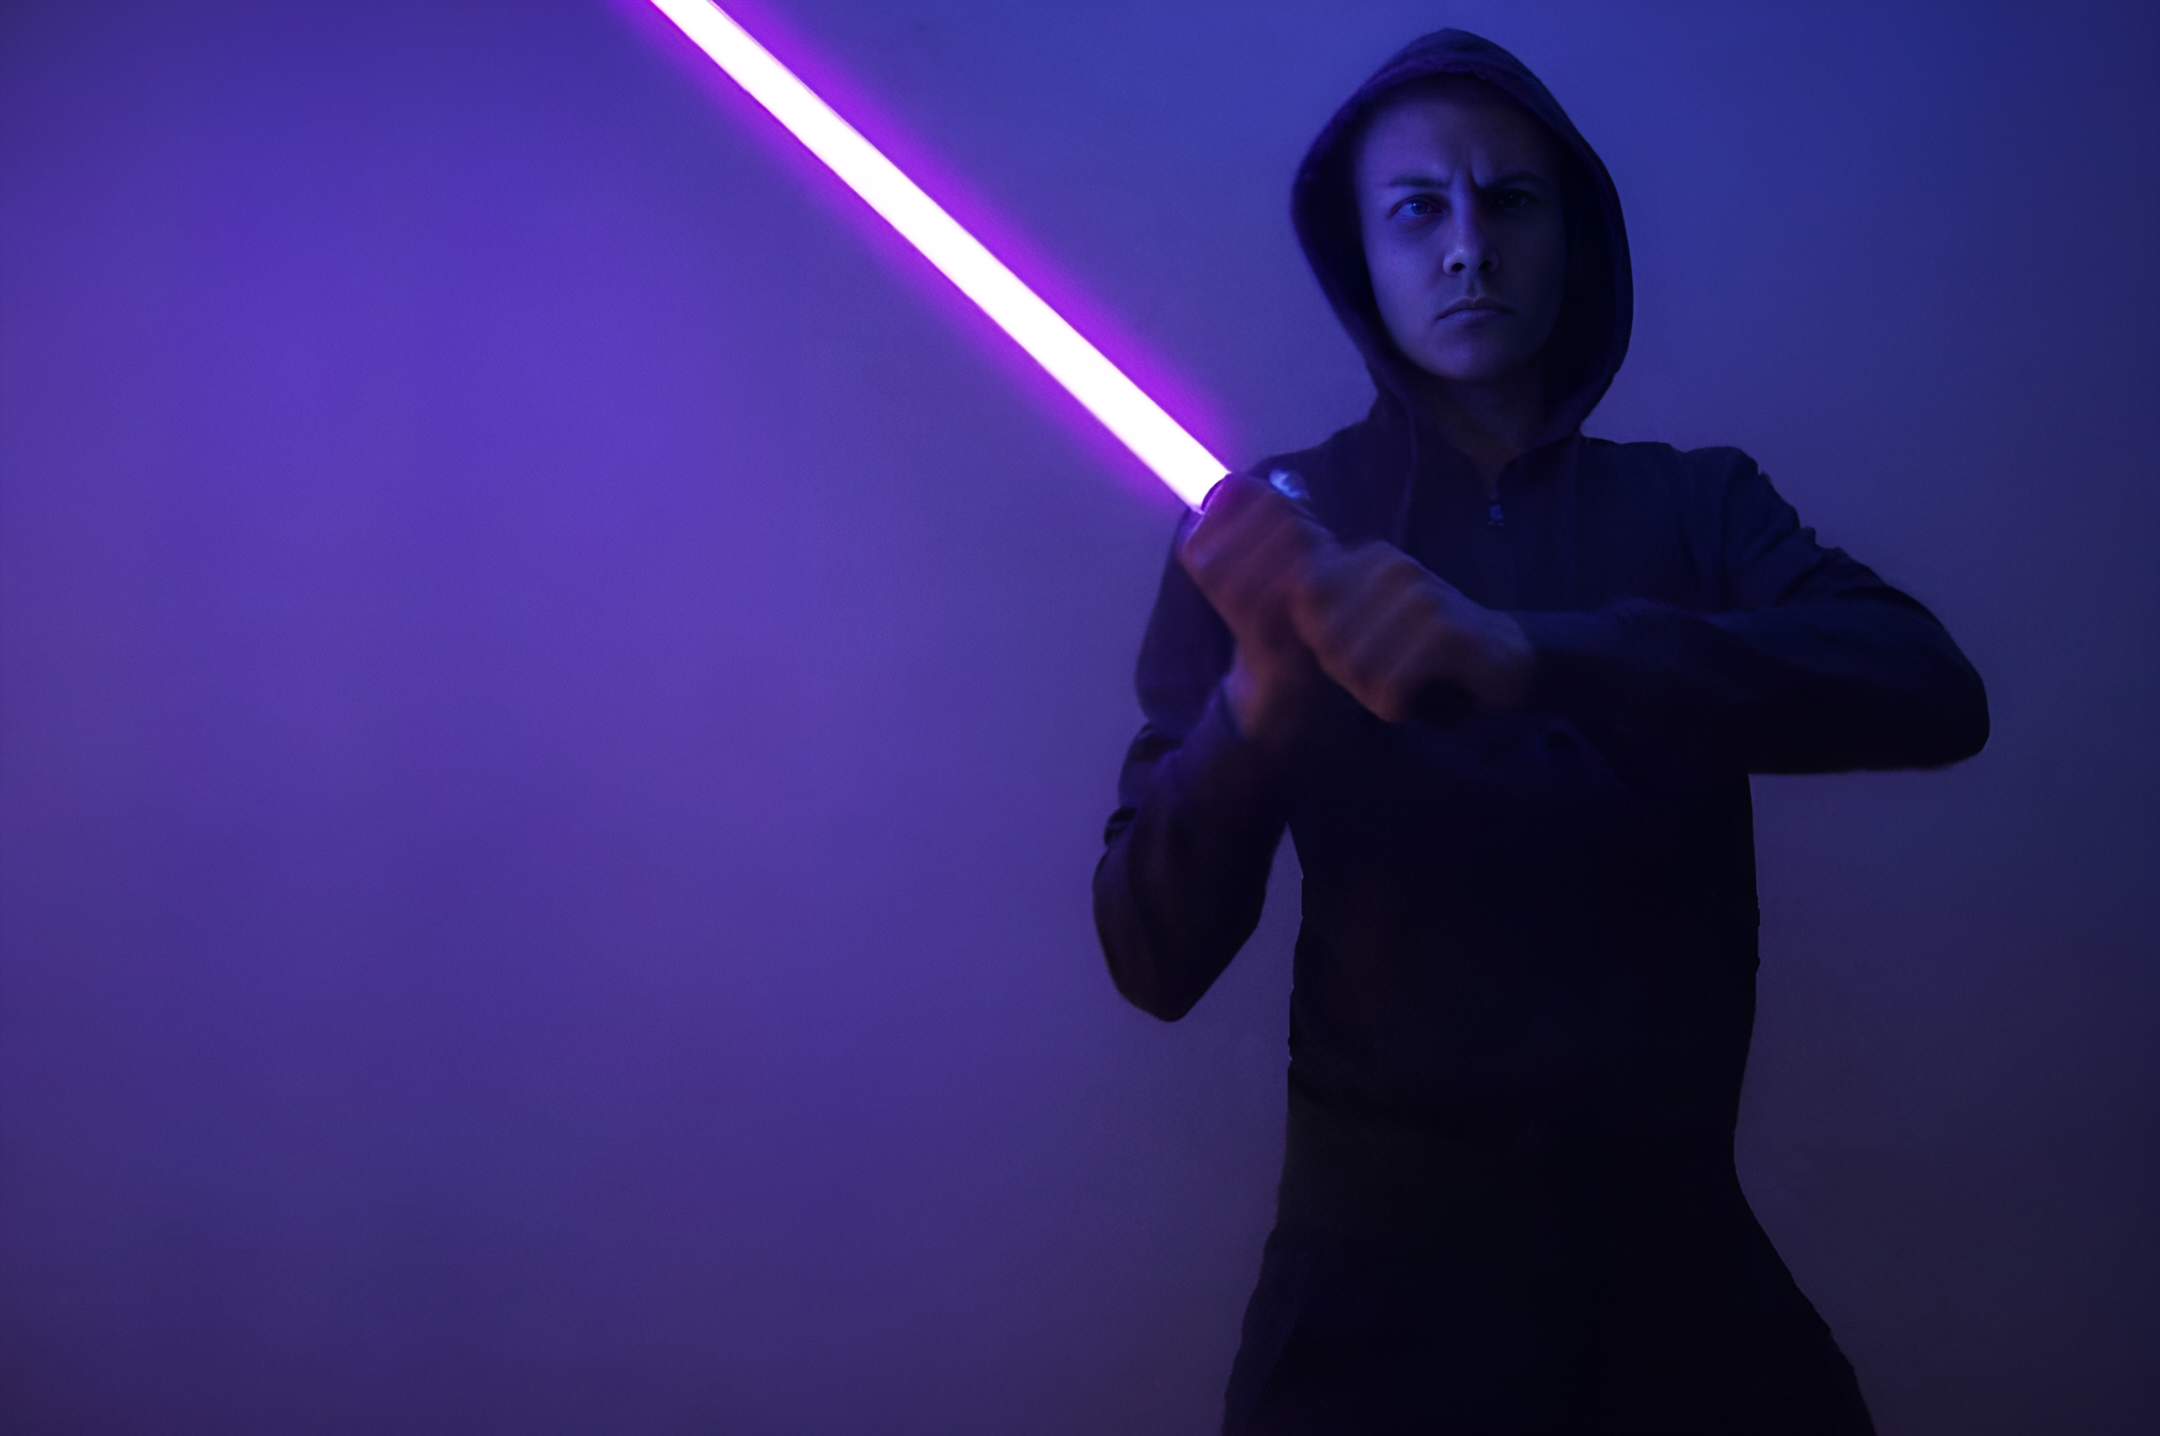
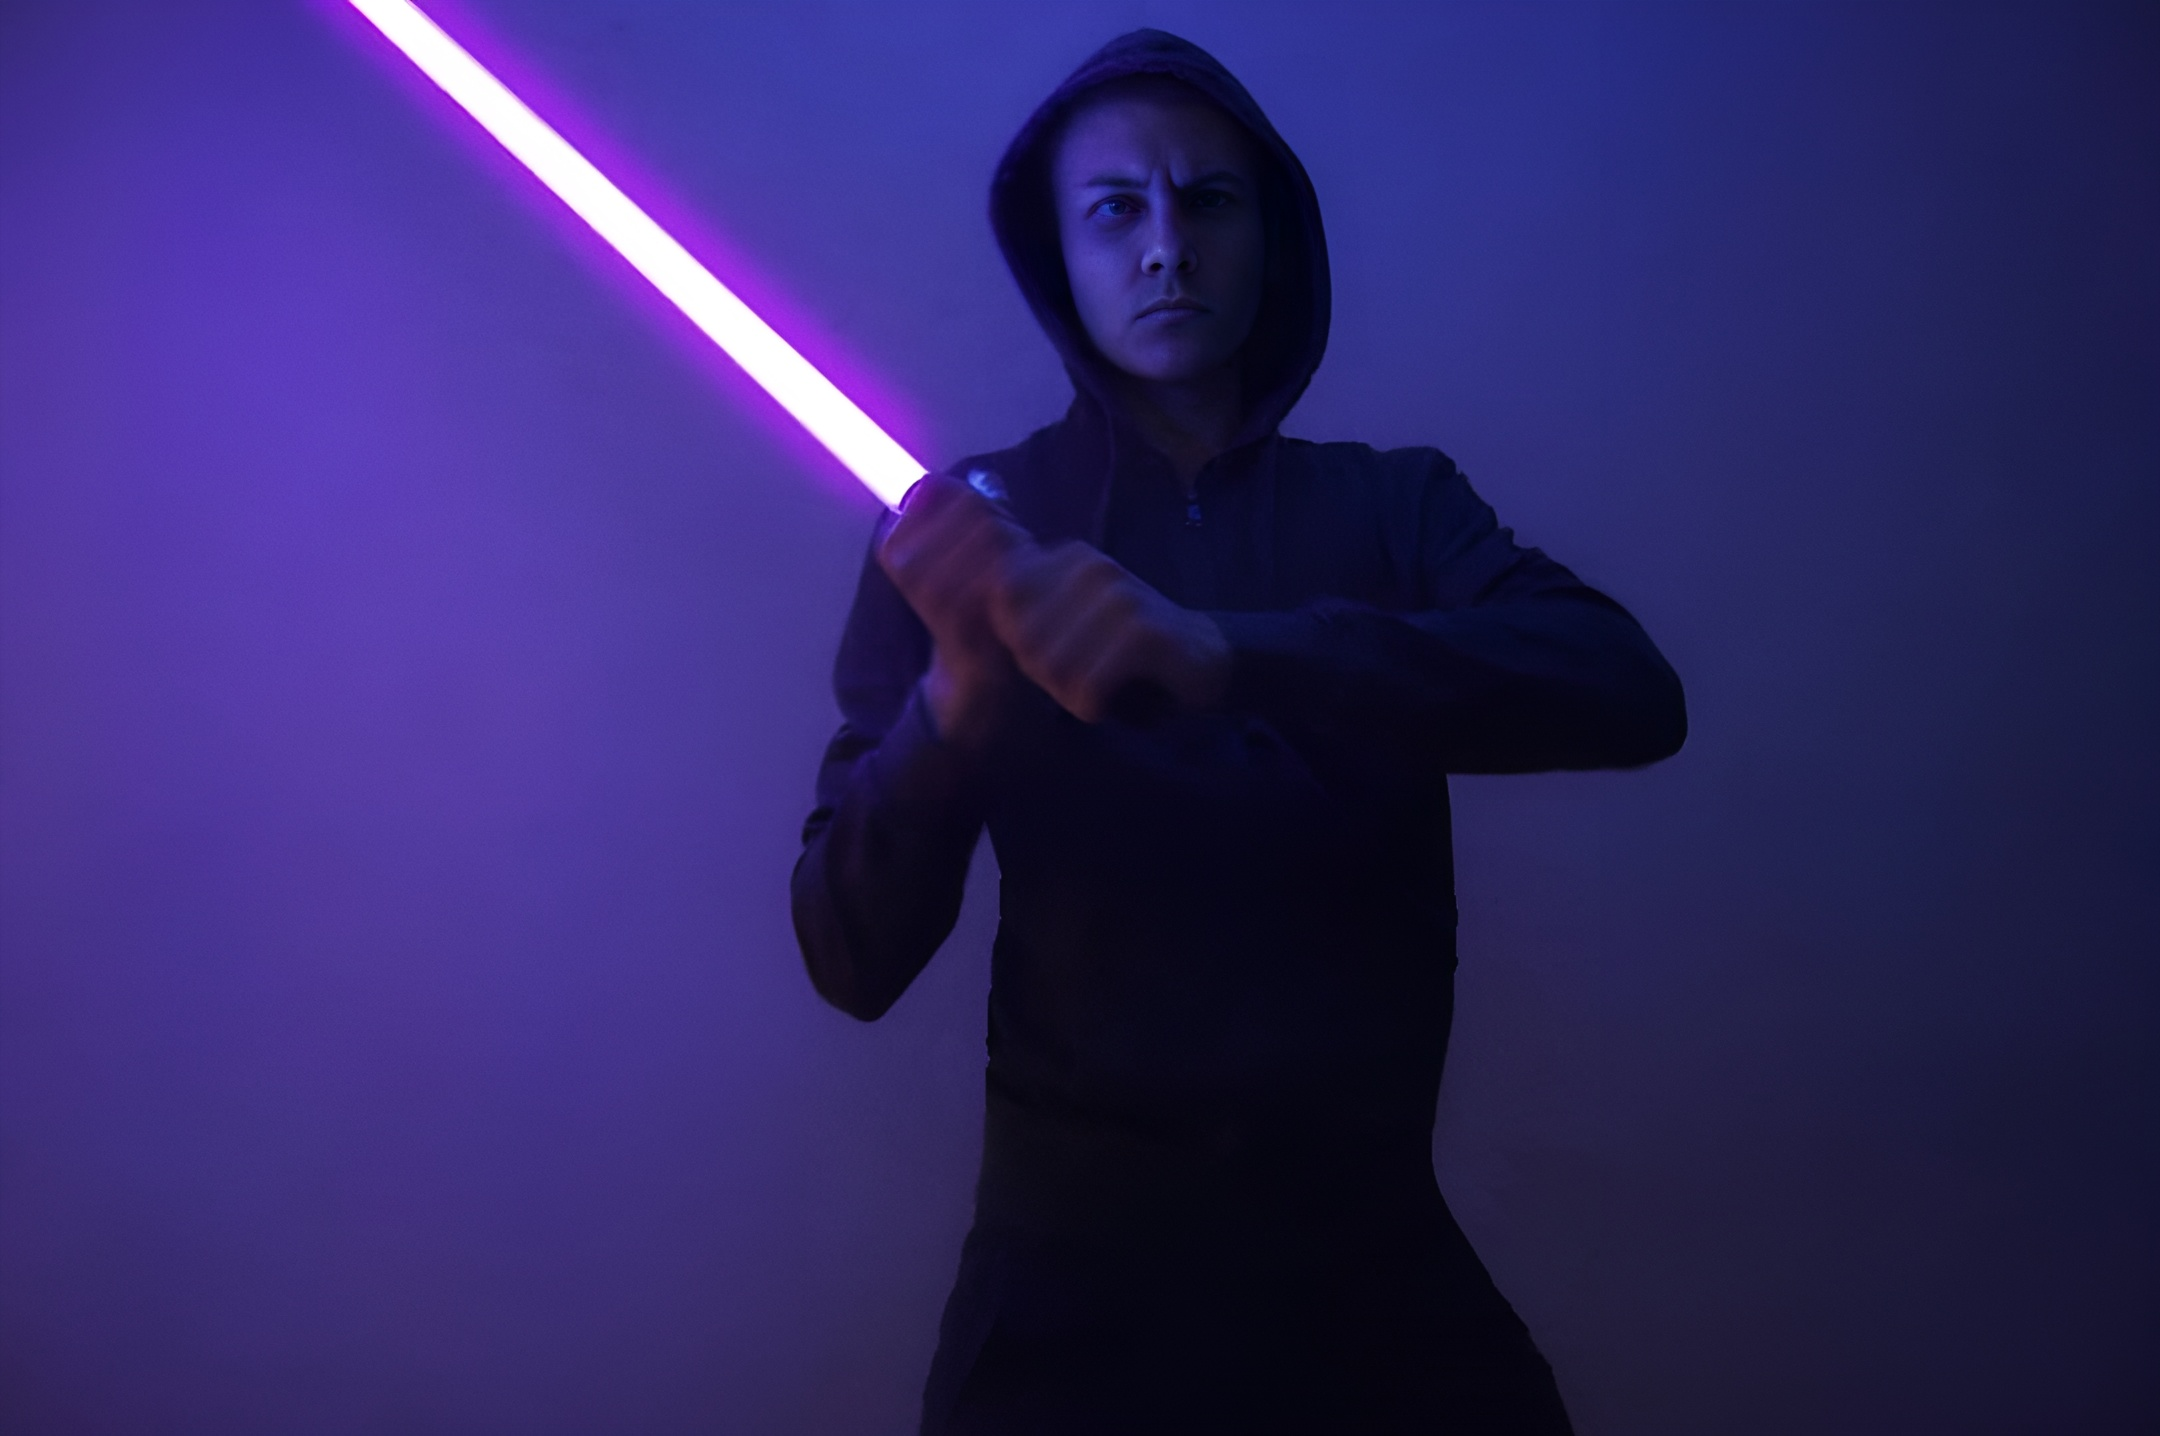
add images adaptive position

diff --git a/styles/main-page/header-gallery.css b/styles/main-page/header-gallery.css
@@ -38,7 +38,6 @@
 .header-gallery__img {
   width: 100%;
   height: 100vh;
-  object-position: 50% 50%;
   object-fit: cover;
 }
 
@@ -49,7 +48,7 @@
   transform: translateX(-50%);
   width: 100%;
   height: 100vh;
-  padding: 0 15px 40px;
+  padding: 0 15px 60px;
   display: flex;
   flex-direction: column;
   justify-content: flex-end;
@@ -135,6 +134,16 @@
 
 /* ----------------------------------------------------------------------------- */
 @media (max-width: 1199px) {
+  .first {
+    object-position: 50% 55%;
+  }
+  .second {
+    object-position: 50% 45%;
+  }
+  .third {
+    object-position: 50% 55%;
+  }
+
   .header-gallery {
     margin-bottom: 100px;
   }
@@ -145,6 +154,10 @@
     justify-content: center;
     align-items: center;
     text-align: center;
+  }
+
+  .header-gallery__what-i-do {
+    max-width: 80%;
   }
 
   .header-gallery__who-am-i {
@@ -175,5 +188,133 @@
   }
 }
 
-/* @media screen and (orientation: portrait) {
-} */
+@media (max-width: 422px) or (max-height: 422px) {
+  .header-gallery__what-i-do {
+    margin-bottom: 10px;
+    font-size: 13px;
+    line-height: 15px;
+  }
+
+  .header-gallery__who-am-i {
+    font-size: 25px;
+    line-height: 25px;
+  }
+}
+
+/* ----------------------------------------------------------------------------- */
+/* ----------------------------------------------------------------------------- */
+
+@media screen and (min-aspect-ratio: 4/3.5) and (min-width: 1199px) {
+  .first {
+    object-position: 50% 20%;
+  }
+  .second {
+    object-position: 50% 0%;
+  }
+  .third {
+    object-position: 50% 20%;
+  }
+}
+@media screen and (min-aspect-ratio: 16/9) and (min-width: 1199px) {
+  .first {
+    object-position: 50% 10%;
+  }
+  .second {
+    object-position: 50% 0%;
+  }
+  .third {
+    object-position: 50% 10%;
+  }
+}
+
+@media screen and (min-aspect-ratio: 4/3.5) and (max-width: 1199px) {
+  .first {
+    object-position: 50% 60%;
+  }
+  .second {
+    object-position: 50% 36%;
+  }
+  .third {
+    object-position: 50% 51%;
+  }
+  .header-gallery__what-i-do {
+    margin-bottom: 15px;
+    max-width: 100%;
+  }
+  .header-gallery__who-am-i {
+    font-size: 35px;
+    line-height: 37px;
+  }
+}
+@media screen and (min-aspect-ratio: 16/9) and (max-width: 1199px) {
+  .first {
+    object-position: 50% 55%;
+  }
+  .second {
+    object-position: 50% 36%;
+  }
+  .third {
+    object-position: 50% 51%;
+  }
+  .header-gallery__what-i-do {
+    margin-bottom: 10px;
+    max-width: 100%;
+    font-size: 17px;
+    line-height: 20px;
+  }
+  .header-gallery__who-am-i {
+    font-size: 28px;
+    line-height: 30px;
+  }
+}
+
+@media screen and (min-aspect-ratio: 4/3.5) and (max-width: 767px) {
+  .first {
+    object-position: 50% 60%;
+  }
+  .second {
+    object-position: 50% 36%;
+  }
+  .third {
+    object-position: 50% 60%;
+  }
+  .header-gallery__what-i-do {
+    max-width: 100%;
+  }
+}
+@media screen and (min-aspect-ratio: 16/9) and (max-width: 767px) {
+  .first {
+    object-position: 50% 57%;
+  }
+  .second {
+    object-position: 50% 36%;
+  }
+  .third {
+    object-position: 50% 57%;
+  }
+}
+
+@media screen and (min-aspect-ratio: 4/3.5) and (max-width: 667px) {
+  .first {
+    object-position: 50% 60%;
+  }
+  .second {
+    object-position: 50% 36%;
+  }
+  .third {
+    object-position: 50% 57%;
+  }
+  .header-gallery__what-i-do {
+    max-width: 100%;
+  }
+  .header-gallery__what-i-do {
+    margin-bottom: 10px;
+    max-width: 100%;
+    font-size: 15px;
+    line-height: 18px;
+  }
+  .header-gallery__who-am-i {
+    font-size: 20px;
+    line-height: 23px;
+  }
+}

diff --git a/index.html b/index.html
@@ -73,7 +73,7 @@
                 srcset="./resources/img/header-gallery/header-bg-mobile.png"
               />
               <img
-                class="header-gallery__img"
+                class="header-gallery__img first"
                 src="./resources/img/header-gallery/header-bg.png"
                 alt="моё фото номер 1"
               />
@@ -86,7 +86,7 @@
                 srcset="./resources/img/header-gallery/header-bg-mobile-2.png"
               />
               <img
-                class="header-gallery__img"
+                class="header-gallery__img second"
                 src="./resources/img/header-gallery/header-bg-2.png"
                 alt="моё фото номер 2"
               />
@@ -99,7 +99,7 @@
                 srcset="./resources/img/header-gallery/header-bg-mobile-3.png"
               />
               <img
-                class="header-gallery__img"
+                class="header-gallery__img third"
                 src="./resources/img/header-gallery/header-bg-3.png"
                 alt="моё фото номер 3"
               />
